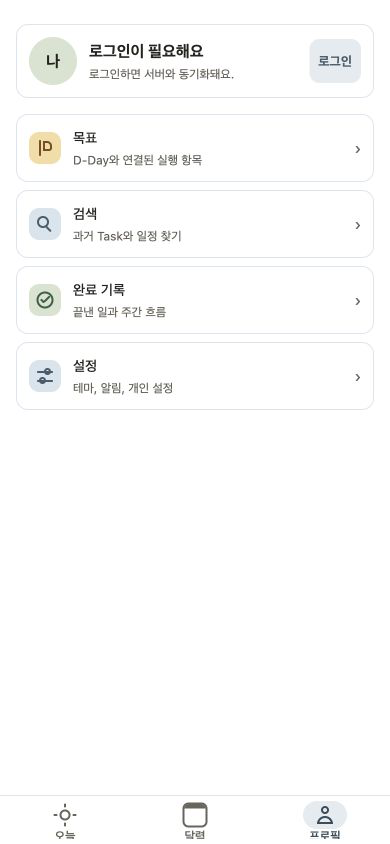
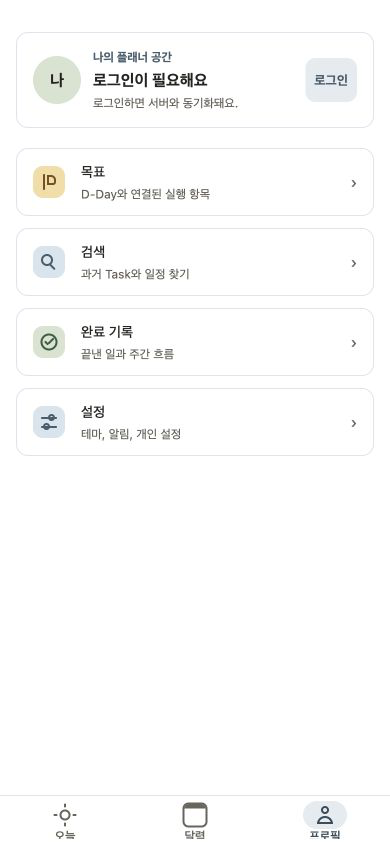
Profile planner space polish

diff --git a/src/features/profile/profile-overview.tsx b/src/features/profile/profile-overview.tsx
@@ -108,6 +108,9 @@ export function ProfileOverview() {
             </AppText>
           </View>
           <View style={styles.identityCopy}>
+            <AppText tone="primary" variant="caption" weight="bold">
+              나의 플래너 공간
+            </AppText>
             <AppText numberOfLines={1} variant="bodyLarge" weight="bold">
               {identityTitle}
             </AppText>
@@ -165,8 +168,7 @@ export function ProfileOverview() {
                 {
                   backgroundColor: pressed ? theme.colors.surfaceMuted : theme.colors.surface,
                   borderColor:
-                    focusedItem === item.href ? theme.colors.primary : theme.colors.border,
-                  borderWidth: focusedItem === item.href ? 2 : StyleSheet.hairlineWidth,
+                    focusedItem === item.href ? theme.colors.primarySoft : theme.colors.border,
                 },
               ]}
             >
@@ -235,17 +237,17 @@ function WebShortcutIcon({ color, name }: { color: ColorValue; name: ProfileItem
 
 const styles = StyleSheet.create({
   screen: {
-    gap: spacing[4],
-    paddingTop: spacing[6],
+    gap: spacing[5],
+    paddingTop: spacing[8],
   },
   identityCard: {
     alignItems: 'center',
     borderRadius: radii.lg,
     borderWidth: StyleSheet.hairlineWidth,
     flexDirection: 'row',
-    gap: spacing[3],
-    paddingHorizontal: spacing[3],
-    paddingVertical: spacing[3],
+    gap: spacing[4],
+    paddingHorizontal: spacing[4],
+    paddingVertical: spacing[4],
   },
   identity: {
     alignItems: 'center',
@@ -267,16 +269,16 @@ const styles = StyleSheet.create({
   },
   menu: {
     backgroundColor: 'transparent',
-    gap: spacing[2],
+    gap: spacing[3],
   },
   row: {
     alignItems: 'center',
     borderRadius: radii.lg,
     borderWidth: StyleSheet.hairlineWidth,
     flexDirection: 'row',
-    gap: spacing[3],
+    gap: spacing[4],
     minHeight: 68,
-    paddingHorizontal: spacing[3],
+    paddingHorizontal: spacing[4],
     paddingVertical: spacing[3],
   },
   icon: {

diff --git a/docs/product/ROADMAP.md b/docs/product/ROADMAP.md
@@ -299,7 +299,7 @@ ToDoLab 적용 방향:
 - [x] Today section별 카드·border 무게를 낮추고 일정/오늘 할 일/정리할 항목/완료의 역할 차이를 더 명확히 만든다.
 - [x] Quick Capture 열린 상태의 기본 파란 focus border를 앱 primary soft border와 bottom sheet형 composer visual로 교체한다.
 - [x] 하단 tab active icon·label의 선택 상태와 실제 스크린샷을 갱신해 Today/Calendar/Profile의 현재 위치가 분명히 보이는지 확인한다.
-- [ ] Profile 상단 로그인 card와 shortcut row를 “나의 플래너 공간”처럼 보이도록 여백, 동기화 상태 copy, icon 리듬을 다듬는다.
+- [x] Profile 상단 로그인 card와 shortcut row를 “나의 플래너 공간”처럼 보이도록 여백, 동기화 상태 copy, icon 리듬을 다듬는다.
 - [ ] iOS/Android font scale 1.5, safe area, light/dark에서 Today와 Calendar가 깨지지 않는지 실제 기기 또는 simulator로 확인한다.
 
 완료 기준:
